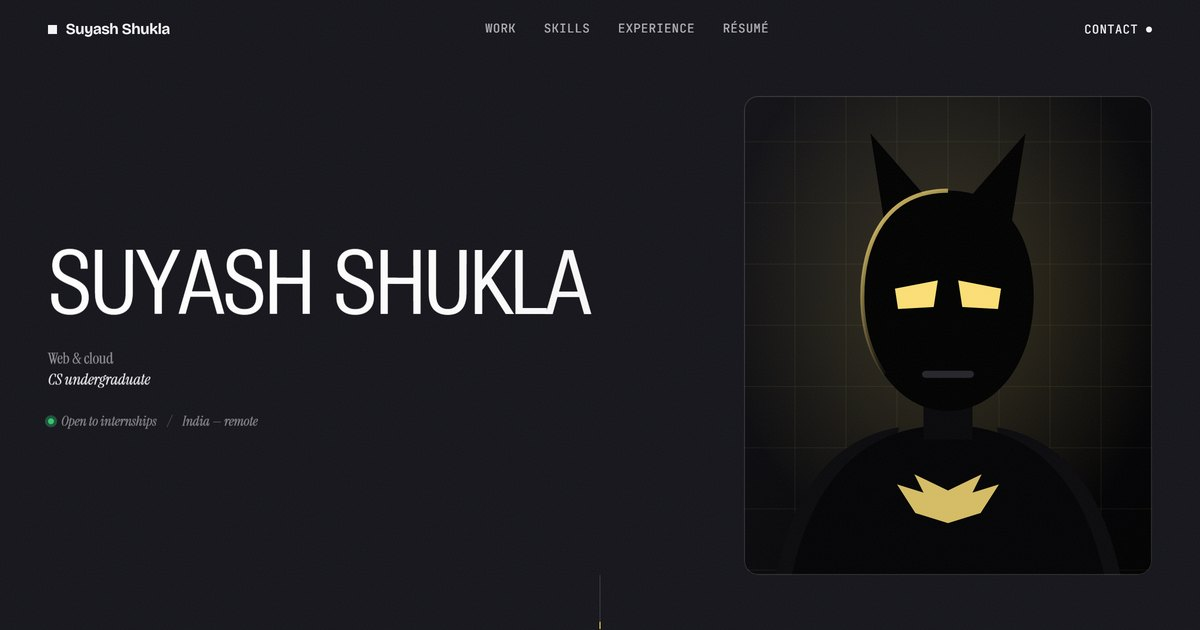
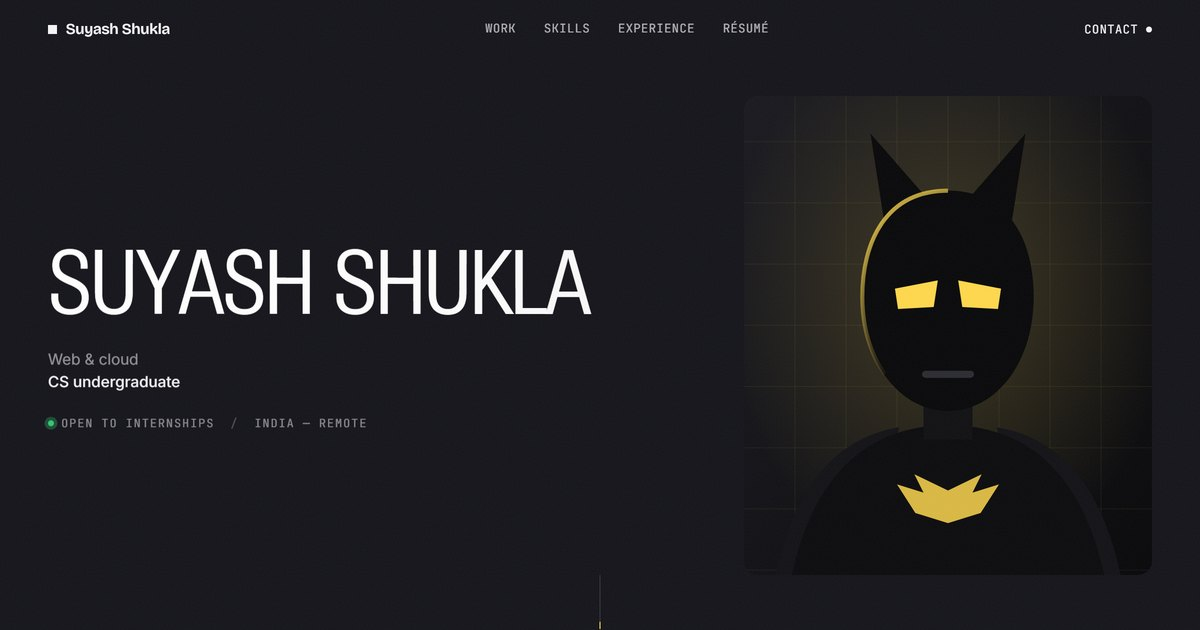
Drop the italic serif from the hero
Instrument Serif sat under the name in italic and read decorative
next to the grotesk and the mono — it was the one face not part of
the system.

- the descriptor uses the body face; <em> keeps the semantics but
  takes its emphasis from weight rather than a slant
- the availability line takes the mono label treatment the eyebrows
  and nav already use, so it reads as metadata
- the font is gone from the Google Fonts request entirely
- og:image regenerated, since the hero visibly changed

diff --git a/css/styles.css b/css/styles.css
@@ -25,7 +25,6 @@
   --font-display: 'Bricolage Grotesque', 'Inter Tight', system-ui, sans-serif;
   /* variable, carries wght + wdth axes — the hero proximity effect needs both */
   --font-flex:    'Roboto Flex', 'Bricolage Grotesque', system-ui, sans-serif;
-  --font-serif:   'Instrument Serif', Georgia, 'Times New Roman', serif;
   --font-body:    'Inter', system-ui, -apple-system, 'Segoe UI', Roboto, sans-serif;
   --font-mono:    'JetBrains Mono', ui-monospace, 'SF Mono', Menlo, Consolas, monospace;
 
@@ -368,15 +367,20 @@ button { font: inherit; color: inherit; background: none; border: 0; cursor: poi
   gap: clamp(1.25rem, 3vh, 2rem);
 }
 
-/* italic serif aside under the name */
+/* the descriptor under the name — body face, not a display one */
 .hero__since {
-  font-family: var(--font-serif);
-  font-size: clamp(.95rem, 1.3vw, 1.2rem);
-  line-height: 1.35;
+  font-size: clamp(.95rem, 1.2vw, 1.1rem);
+  line-height: 1.5;
   color: var(--muted);
   animation: fade-in .9s var(--ease-out);
 }
-.hero__since em { color: var(--ink); }
+/* <em> for the semantics, weight for the emphasis — an italic here
+   reads decorative next to the rest of the type */
+.hero__since em {
+  font-style: normal;
+  font-weight: 500;
+  color: var(--ink);
+}
 
 /* ------------------------------------------- the headline --- */
 .hero__name {
@@ -564,10 +568,13 @@ button { font: inherit; color: inherit; background: none; border: 0; cursor: poi
   flex-wrap: wrap;
   align-items: center;
   justify-content: flex-start;
-  gap: .7rem;
-  font-family: var(--font-serif);
-  font-style: italic;
-  font-size: clamp(.85rem, 1.1vw, 1.05rem);
+  gap: .7rem 1rem;
+  /* the same mono label treatment as the eyebrows and the nav, so
+     the status line reads as metadata rather than prose */
+  font-family: var(--font-mono);
+  font-size: .72rem;
+  letter-spacing: .1em;
+  text-transform: uppercase;
   color: var(--muted);
   animation: fade-in 1.35s var(--ease-out);
 }

diff --git a/index.html b/index.html
@@ -25,10 +25,10 @@
 <link rel="preconnect" href="https://fonts.googleapis.com" />
 <link rel="preconnect" href="https://fonts.gstatic.com" crossorigin />
 <!-- Roboto Flex carries the wght + wdth axes the hero proximity effect animates -->
-<link href="https://fonts.googleapis.com/css2?family=Bricolage+Grotesque:opsz,wght@12..96,400;12..96,600;12..96,800&family=Roboto+Flex:opsz,wdth,wght@8..144,25..151,100..1000&family=Instrument+Serif:ital@0;1&family=Inter:wght@400;500&family=JetBrains+Mono:wght@400;500&display=swap" rel="stylesheet" />
+<link href="https://fonts.googleapis.com/css2?family=Bricolage+Grotesque:opsz,wght@12..96,400;12..96,600;12..96,800&family=Roboto+Flex:opsz,wdth,wght@8..144,25..151,100..1000&family=Inter:wght@400;500&family=JetBrains+Mono:wght@400;500&display=swap" rel="stylesheet" />
 
 <!-- bump ?v= whenever css/js change so no browser can serve a stale copy -->
-<link rel="stylesheet" href="css/styles.css?v=7" />
+<link rel="stylesheet" href="css/styles.css?v=8" />
 
 <script>document.documentElement.classList.add('js');</script>
 </head>
@@ -365,6 +365,6 @@
 
 <div class="toast" id="toast" role="status" aria-live="polite"></div>
 
-<script src="js/main.js?v=7"></script>
+<script src="js/main.js?v=8"></script>
 </body>
 </html>

diff --git a/DEVELOPING.md b/DEVELOPING.md
@@ -185,12 +185,19 @@ Two variables in `:root`, plus the Google Fonts `<link>` in `<head>`:
 
 ```css
 --font-display: 'Bricolage Grotesque', ...;   /* headlines */
+--font-flex:    'Roboto Flex', ...;           /* the hero name only */
 --font-body:    'Inter', ...;                 /* paragraphs */
---font-mono:    'JetBrains Mono', ...;        /* labels */
+--font-mono:    'JetBrains Mono', ...;        /* labels and metadata */
 ```
 
+Four faces is already the ceiling. There was a fifth — Instrument Serif,
+italic, on the two lines under the name — and it was dropped: a decorative
+serif next to a grotesk and a mono reads as an accident rather than a
+choice. Those lines now use the body face and the mono label treatment,
+which is what the eyebrows and the nav already use.
+
 Display faces that suit this layout: `Anton`, `Syne`, `Archivo Expanded`,
-`Space Grotesk`, `Instrument Serif` for something softer.
+`Space Grotesk`.
 
 ### Tuning the cursor effect on the name
 
